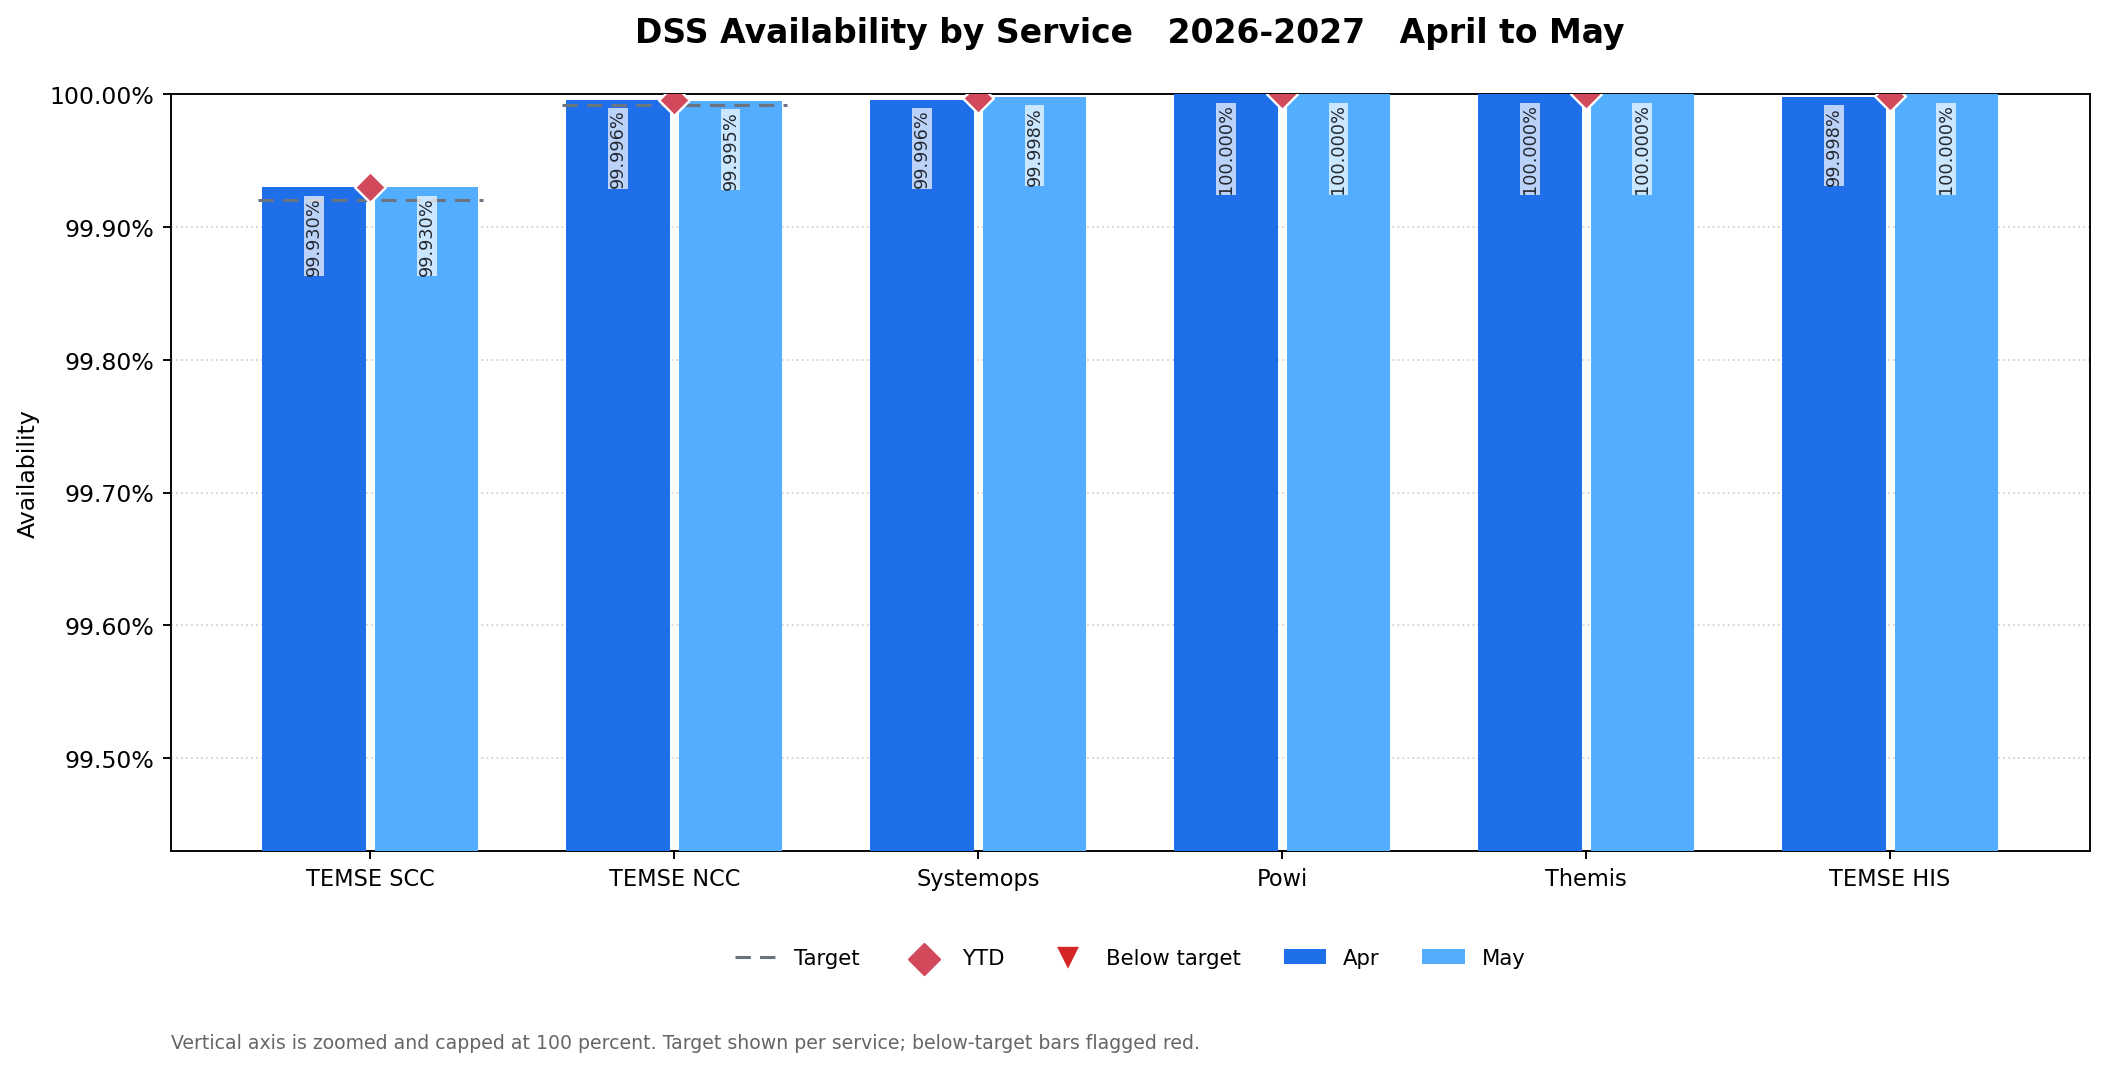
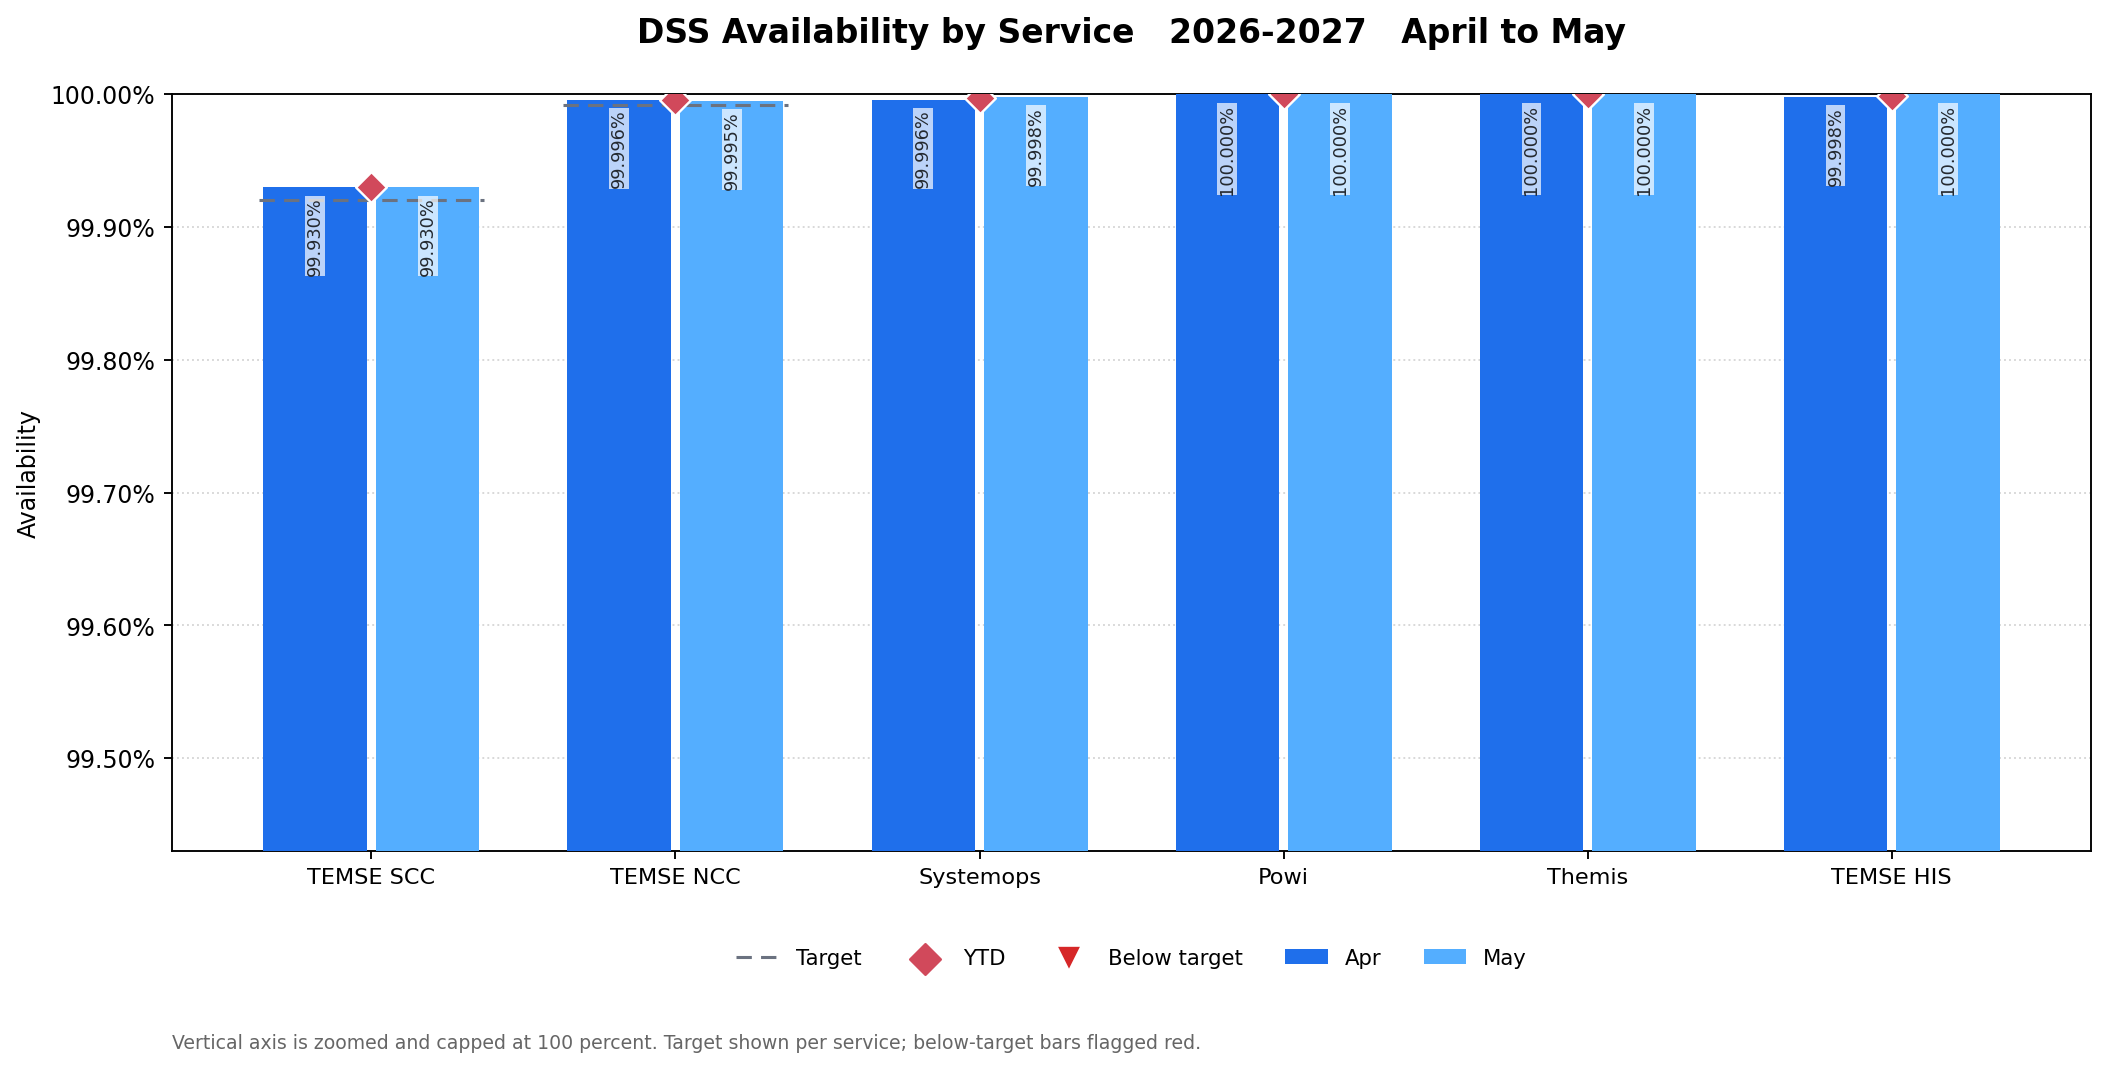
refresh html export readme and figures for the rolling tile view

diff --git a/README.md b/README.md
@@ -7,11 +7,14 @@ left off the chart.
 
 Two chart styles are produced from the same data so the presentation style can be chosen:
 
-- An executive tile view, one panel per service, recommended as the default. Tiles are ordered with
-  the lowest current month first so the services worth attention lead, each tile carries its monthly
-  line and year to date, the lowest monthly dip is marked in red, and the vertical axis never goes
-  above 100 percent while each tile scales itself so a small dip stays visible.
-- A grouped columns view, which compares services well early in the year.
+- An executive tile view, one panel per service, recommended as the default. It shows a rolling
+  window of months (12 by default) stitched across the financial-year boundary, so each tile carries
+  a real trend. Tiles are ordered with the lowest current month first, each shows its monthly line,
+  its year to date, and its target line, any month below target is marked in red, a vertical line
+  marks the start of the new financial year in April, and the vertical axis never goes above 100
+  percent while each tile scales itself so a dip stays visible.
+- A grouped columns view for the current financial year, with each service's target drawn and any
+  below-target bar flagged, useful for a straight month-to-month comparison.
 
 ## Project structure
 
@@ -31,7 +34,7 @@ Two chart styles are produced from the same data so the presentation style can b
    vertical axis range all adapt to the data.
 
 The config cell is the single point of change. It also lets you chart a specific fiscal year
-instead of the latest one.
+instead of the latest one, and set how many months the rolling tile view shows.
 
 ## Dependencies
 